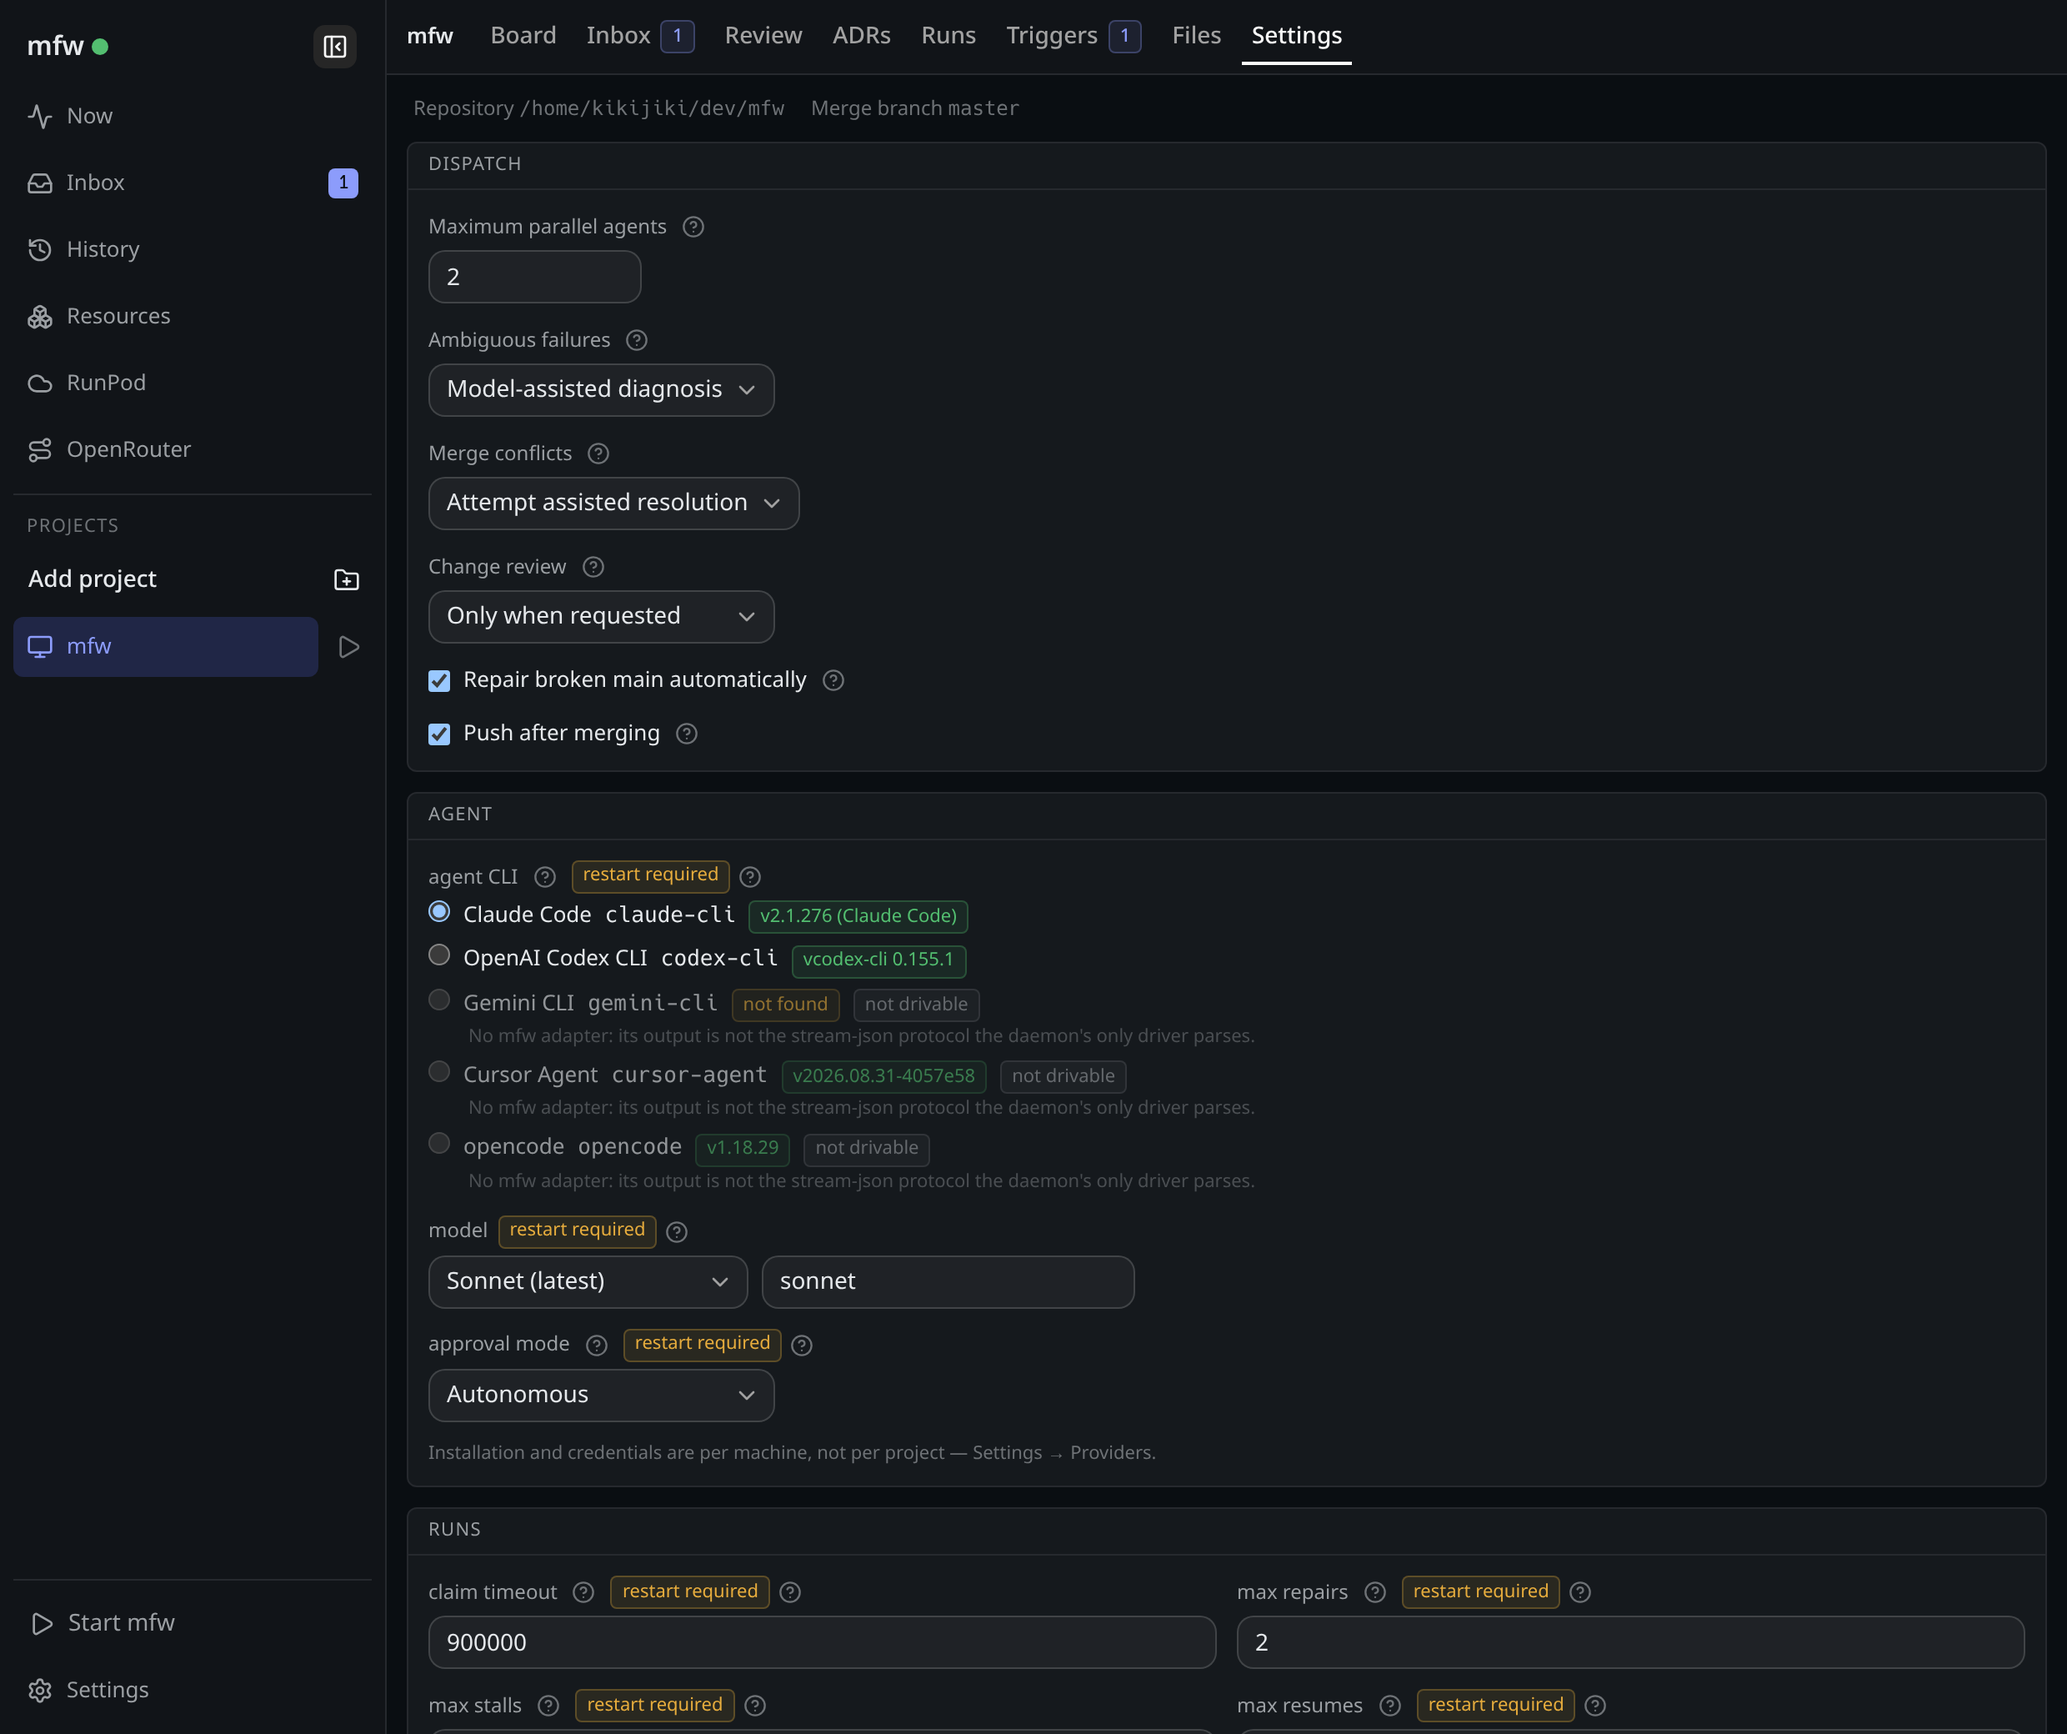
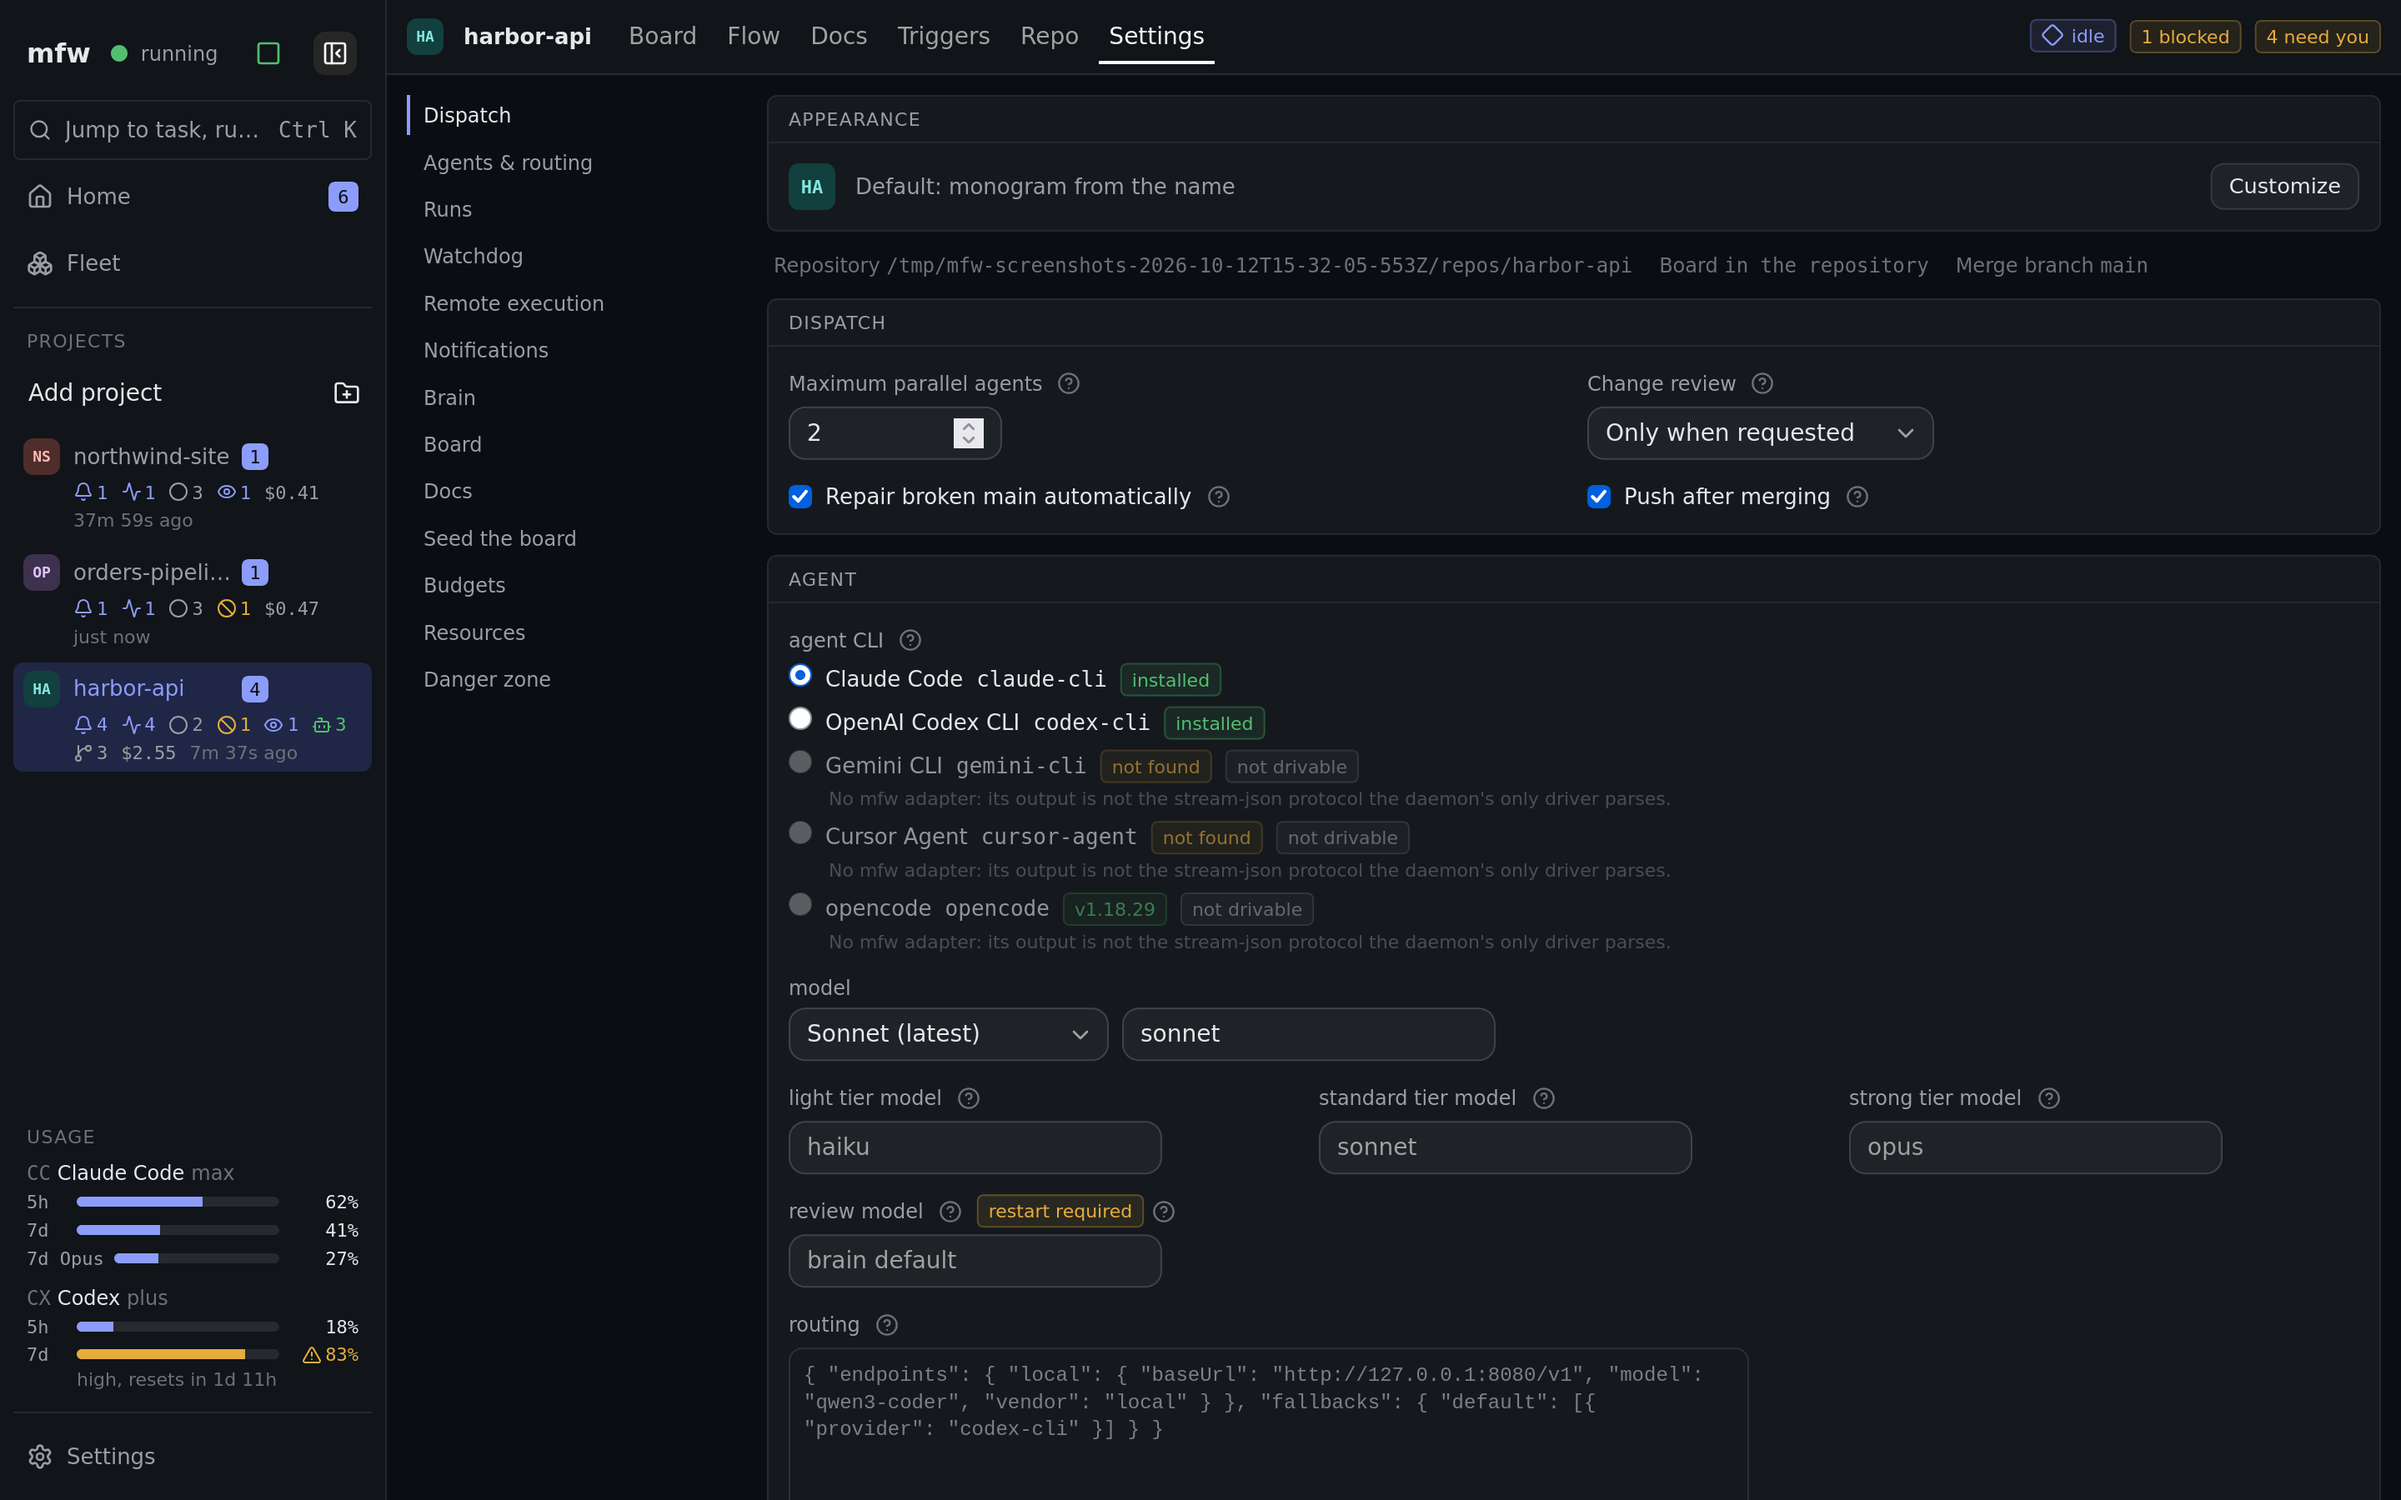
mfw: new screenshot set, second in the project list; drop the mfw-screenshots script

diff --git a/index.html b/index.html
@@ -77,6 +77,45 @@
           <li>
             <details>
               <summary>
+                <pre class="project-icon" aria-hidden="true">┏━━━━━┓
+┃ ╭─╮ ┃
+┃●┤v├●┃
+┃ ╰─╯ ┃
+┗━━━━━┛</pre>
+                <div class="project-summary">
+                  <h3>mfw <span class="project-links"><a href="https://github.com/kikijiki/mfw" target="_blank" rel="noopener">repo</a></span></h3>
+                  <p>A local-first orchestrator that runs fleets of coding agents across your projects, from goals to verified, merged work.</p>
+                  <small>typescript · multi-agent orchestration · mcp · acp · git worktrees</small>
+                </div>
+              </summary>
+              <div class="project-details">
+                <ul class="project-highlights">
+                  <li><strong>Board (<code>mfwb</code>):</strong> a CLI and library that keeps project work as plain markdown files in your repo. Custom document types, dependencies checked for cycles, lock-safe claiming for parallel agents.</li>
+                  <li><strong>Orchestration:</strong> a service that runs a fleet of agents across projects. A per-project brain plans work, picks the harness and model, runs parallel or competing attempts, and settles results, with every decision audited and overridable.</li>
+                  <li><strong>Fleet:</strong> Claude Code, Codex CLI and others in isolated git worktrees, locally or on remote hosts. Verified before an autonomous merge, within budgets, rerouted when a subscription runs out.</li>
+                  <li><strong>UI:</strong> a local web app: lane board, flow view, inspector, docs and repo browsers, fleet usage and spend. Works on a phone.</li>
+                  <li>Also: host resource coordinator, RunPod and OpenRouter providers, triggers, MCP server.</li>
+                </ul>
+                <div class="project-gallery" id="mfw-gallery">
+                  <a id="mfw-1" href="#mfw-1"><img src="/projects/mfw/home.png" alt="mfw home: what needs you, and agents live across projects" loading="lazy"></a>
+                  <a id="mfw-2" href="#mfw-2"><img src="/projects/mfw/board.png" alt="mfw board as lanes, one status per lane" loading="lazy"></a>
+                  <a id="mfw-3" href="#mfw-3"><img src="/projects/mfw/board-inspector.png" alt="mfw task open in the inspector next to the board" loading="lazy"></a>
+                  <a id="mfw-4" href="#mfw-4"><img src="/projects/mfw/flow.png" alt="mfw flow: the task tree and run timeline with the brain on top" loading="lazy"></a>
+                  <a id="mfw-5" href="#mfw-5"><img src="/projects/mfw/fleet.png" alt="mfw fleet: hosts, subscriptions, harnesses and budgets" loading="lazy"></a>
+                  <a id="mfw-6" href="#mfw-6"><img src="/projects/mfw/settings.png" alt="mfw project settings" loading="lazy"></a>
+                </div>
+                <a href="#mfw-gallery" class="lightbox" id="lightbox-mfw-1"><img src="/projects/mfw/home.png" alt="mfw home: what needs you, and agents live across projects"></a>
+                <a href="#mfw-gallery" class="lightbox" id="lightbox-mfw-2"><img src="/projects/mfw/board.png" alt="mfw board as lanes, one status per lane"></a>
+                <a href="#mfw-gallery" class="lightbox" id="lightbox-mfw-3"><img src="/projects/mfw/board-inspector.png" alt="mfw task open in the inspector next to the board"></a>
+                <a href="#mfw-gallery" class="lightbox" id="lightbox-mfw-4"><img src="/projects/mfw/flow.png" alt="mfw flow: the task tree and run timeline with the brain on top"></a>
+                <a href="#mfw-gallery" class="lightbox" id="lightbox-mfw-5"><img src="/projects/mfw/fleet.png" alt="mfw fleet: hosts, subscriptions, harnesses and budgets"></a>
+                <a href="#mfw-gallery" class="lightbox" id="lightbox-mfw-6"><img src="/projects/mfw/settings.png" alt="mfw project settings"></a>
+              </div>
+            </details>
+          </li>
+          <li>
+            <details>
+              <summary>
                 <pre class="project-icon" aria-hidden="true">┌─────┐
 │C:\  │
 │└─┬─■│
@@ -139,54 +178,6 @@
                 <a href="#vuldir-gallery" class="lightbox" id="lightbox-vuldir-2"><img src="/projects/vuldir/architecture-layers.png" alt="One common API over Vulkan 1.3 and DirectX 12 backends with a shared bindless shader layout"></a>
                 <a href="#vuldir-gallery" class="lightbox" id="lightbox-vuldir-3"><img src="/projects/vuldir/bindless-descriptors.png" alt="Bindless descriptors: device-owned heaps, stable indices, and deferred index reuse"></a>
                 <a href="#vuldir-gallery" class="lightbox" id="lightbox-vuldir-4"><img src="/projects/vuldir/frame-command-flow.png" alt="Per-context frame ring of command pools and virtual resource state tracking committed on submit"></a>
-              </div>
-            </details>
-          </li>
-          <li>
-            <details>
-              <summary>
-                <pre class="project-icon" aria-hidden="true">┏━━━━━┓
-┃ ╭─╮ ┃
-┃●┤v├●┃
-┃ ╰─╯ ┃
-┗━━━━━┛</pre>
-                <div class="project-summary">
-                  <h3>mfw <span class="project-links"><a href="https://github.com/kikijiki/mfw" target="_blank" rel="noopener">repo</a></span></h3>
-                  <p>A local-first autonomous project orchestrator that drives coding agents from goals to verified work.</p>
-                  <small>typescript · ai agents · mcp · acp · spec-driven · runpod</small>
-                </div>
-              </summary>
-              <div class="project-details">
-                <ul class="project-highlights">
-                  <li><strong>Board:</strong> a command-line tool and library that manages project work as plain markdown files in your repo instead of a database. A config file defines your own document types (tasks, specs, ADRs, anything), each with its own schema: typed fields with allowed values and defaults, links between documents such as dependencies (checked for cycles), an id scheme, and a folder layout. Claiming a task is lock-safe, so several agents can work in parallel.</li>
-                  <li><strong>Service:</strong> an orchestrator built on the board. It schedules tasks, runs coding agents (Claude Code, Codex CLI, and other subscription-based ones) in isolated git worktrees, and verifies the results before an autonomous merge to main.</li>
-                  <li><strong>UI:</strong> a web app on top of the service, with a kanban board and a live session viewer to watch and steer any running agent.</li>
-                  <li>Also: a host-wide CPU/RAM/GPU coordinator, RunPod and OpenRouter control planes, and project triggers.</li>
-                </ul>
-                <div class="project-gallery" id="mfw-gallery">
-                  <a id="mfw-1" href="#mfw-1"><img src="/projects/mfw/board.png" alt="mfw task board with a column per status" loading="lazy"></a>
-                  <a id="mfw-2" href="#mfw-2"><img src="/projects/mfw/inbox.png" alt="mfw inbox" loading="lazy"></a>
-                  <a id="mfw-3" href="#mfw-3"><img src="/projects/mfw/review.png" alt="mfw review queue" loading="lazy"></a>
-                  <a id="mfw-4" href="#mfw-4"><img src="/projects/mfw/adrs.png" alt="mfw ADR list and editor" loading="lazy"></a>
-                  <a id="mfw-5" href="#mfw-5"><img src="/projects/mfw/runs.png" alt="mfw agent runs" loading="lazy"></a>
-                  <a id="mfw-6" href="#mfw-6"><img src="/projects/mfw/triggers.png" alt="mfw project triggers" loading="lazy"></a>
-                  <a id="mfw-7" href="#mfw-7"><img src="/projects/mfw/files.png" alt="mfw project files" loading="lazy"></a>
-                  <a id="mfw-8" href="#mfw-8"><img src="/projects/mfw/settings.png" alt="mfw project settings" loading="lazy"></a>
-                  <a id="mfw-9" href="#mfw-9"><img src="/projects/mfw/resources.png" alt="mfw host resource coordinator" loading="lazy"></a>
-                  <a id="mfw-10" href="#mfw-10"><img src="/projects/mfw/runpod.png" alt="mfw RunPod control plane" loading="lazy"></a>
-                  <a id="mfw-11" href="#mfw-11"><img src="/projects/mfw/openrouter.png" alt="mfw OpenRouter control plane" loading="lazy"></a>
-                </div>
-                <a href="#mfw-gallery" class="lightbox" id="lightbox-mfw-1"><img src="/projects/mfw/board.png" alt="mfw task board with a column per status"></a>
-                <a href="#mfw-gallery" class="lightbox" id="lightbox-mfw-2"><img src="/projects/mfw/inbox.png" alt="mfw inbox"></a>
-                <a href="#mfw-gallery" class="lightbox" id="lightbox-mfw-3"><img src="/projects/mfw/review.png" alt="mfw review queue"></a>
-                <a href="#mfw-gallery" class="lightbox" id="lightbox-mfw-4"><img src="/projects/mfw/adrs.png" alt="mfw ADR list and editor"></a>
-                <a href="#mfw-gallery" class="lightbox" id="lightbox-mfw-5"><img src="/projects/mfw/runs.png" alt="mfw agent runs"></a>
-                <a href="#mfw-gallery" class="lightbox" id="lightbox-mfw-6"><img src="/projects/mfw/triggers.png" alt="mfw project triggers"></a>
-                <a href="#mfw-gallery" class="lightbox" id="lightbox-mfw-7"><img src="/projects/mfw/files.png" alt="mfw project files"></a>
-                <a href="#mfw-gallery" class="lightbox" id="lightbox-mfw-8"><img src="/projects/mfw/settings.png" alt="mfw project settings"></a>
-                <a href="#mfw-gallery" class="lightbox" id="lightbox-mfw-9"><img src="/projects/mfw/resources.png" alt="mfw host resource coordinator"></a>
-                <a href="#mfw-gallery" class="lightbox" id="lightbox-mfw-10"><img src="/projects/mfw/runpod.png" alt="mfw RunPod control plane"></a>
-                <a href="#mfw-gallery" class="lightbox" id="lightbox-mfw-11"><img src="/projects/mfw/openrouter.png" alt="mfw OpenRouter control plane"></a>
               </div>
             </details>
           </li>
